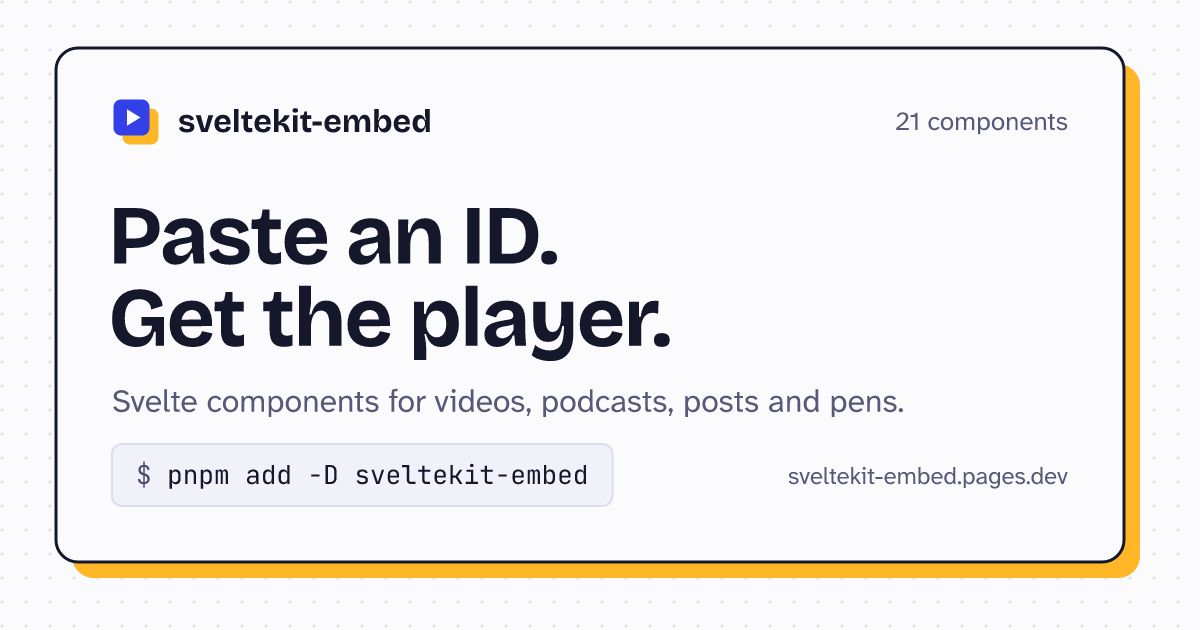
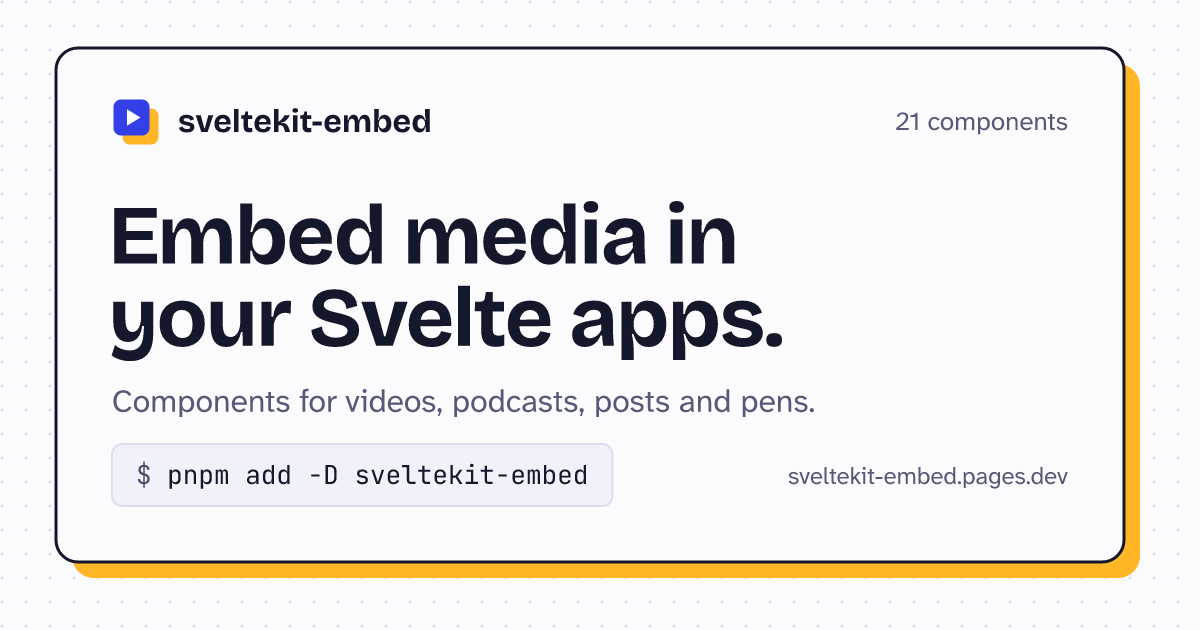
feat(web): say what the package is in the headline
The headline is now "Embed media in your Svelte apps." on the home
page and its share image, with the original intro line back
underneath. The install section gains a +page.md example to show the
components working in Markdown with mdsvex.

Changed region(s): [[0.0925, 0.4524, 0.6475, 0.573], [0.0925, 0.3016, 0.6167, 0.4222], [0.0925, 0.6032, 0.7708, 0.6635]]

diff --git a/apps/web/src/routes/+page.svelte b/apps/web/src/routes/+page.svelte
@@ -34,24 +34,25 @@
 		path: '/',
 		card: 'home',
 		card_alt:
-			'Paste an ID. Get the player. Svelte components for videos, podcasts, posts and pens.',
+			'Embed media in your Svelte apps. Components for videos, podcasts, posts and pens.',
 	}}
 	schema={home_schema()}
 />
 
 <section
-	class="site-width grid items-center gap-x-12 gap-y-10 py-12 lg:grid-cols-[minmax(0,5fr)_minmax(0,6fr)] lg:py-20"
+	class="site-width grid items-center gap-x-12 gap-y-10 py-12 lg:grid-cols-2 lg:py-20"
 >
 	<div>
 		<h1
-			class="text-5xl leading-[0.95] font-extrabold sm:text-6xl xl:text-7xl"
+			class="text-4xl leading-[0.95] font-extrabold sm:text-6xl lg:text-5xl xl:text-6xl"
 		>
-			Paste an ID.<br />Get the player.
+			Embed media in<br />your Svelte apps.
 		</h1>
 		<p class="mt-6 max-w-136 text-xl text-muted">
-			{components.length} Svelte components for the videos, podcasts, posts
-			and pens you embed in SvelteKit pages. Each one takes an ID or a link,
-			and lazy loads by default.
+			A collection of {components.length} embed components I use on a regular
+			basis, packaged up for use: videos, podcasts, social posts and code.
+			They work in Svelte files and in Markdown with mdsvex, which is how
+			this site is written.
 		</p>
 		<div class="mt-8 flex flex-wrap gap-3">
 			<button

diff --git a/apps/web/scripts/generate-share-cards.ts b/apps/web/scripts/generate-share-cards.ts
@@ -198,10 +198,9 @@ const cards: Card[] = [
 	{
 		file: 'home',
 		context: `${components.length} components`,
-		title: ['Paste an ID.', 'Get the player.'],
+		title: ['Embed media in', 'your Svelte apps.'],
 		// One line: the two line title leaves no room for a second
-		description:
-			'Svelte components for videos, podcasts, posts and pens.',
+		description: 'Components for videos, podcasts, posts and pens.',
 		code: [
 			[CODE.punctuation, '$ '],
 			[INK, `pnpm add -D ${site.package}`],

diff --git a/apps/web/tests/palette.test.ts b/apps/web/tests/palette.test.ts
@@ -4,7 +4,10 @@ test('home page lists the components', async ({ page }) => {
 	await page.goto('/');
 
 	await expect(
-		page.getByRole('heading', { level: 1, name: /Paste an ID/ }),
+		page.getByRole('heading', {
+			level: 1,
+			name: /Embed media in your Svelte apps/,
+		}),
 	).toBeVisible();
 	await expect(
 		page.getByRole('link', { name: /^YouTube A YouTube video/ }),

diff --git a/apps/web/src/lib/content/install.md b/apps/web/src/lib/content/install.md
@@ -13,3 +13,16 @@ Import the component you need and give it an ID or a link.
 
 <YouTube youtube_id="dQw4w9WgXcQ" />
 ```
+
+It works the same way in Markdown with mdsvex, which is how the pages
+on this site are written.
+
+```svelte title="+page.md"
+<script>
+	import { YouTube } from 'sveltekit-embed';
+</script>
+
+# My post
+
+<YouTube youtube_id="dQw4w9WgXcQ" />
+```
